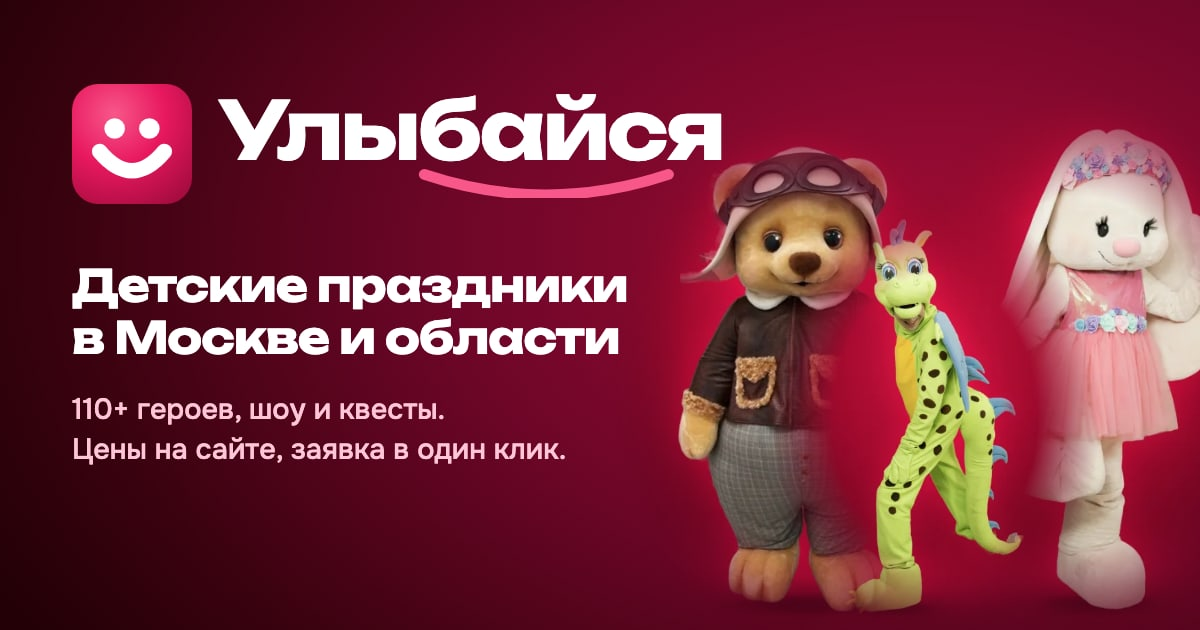
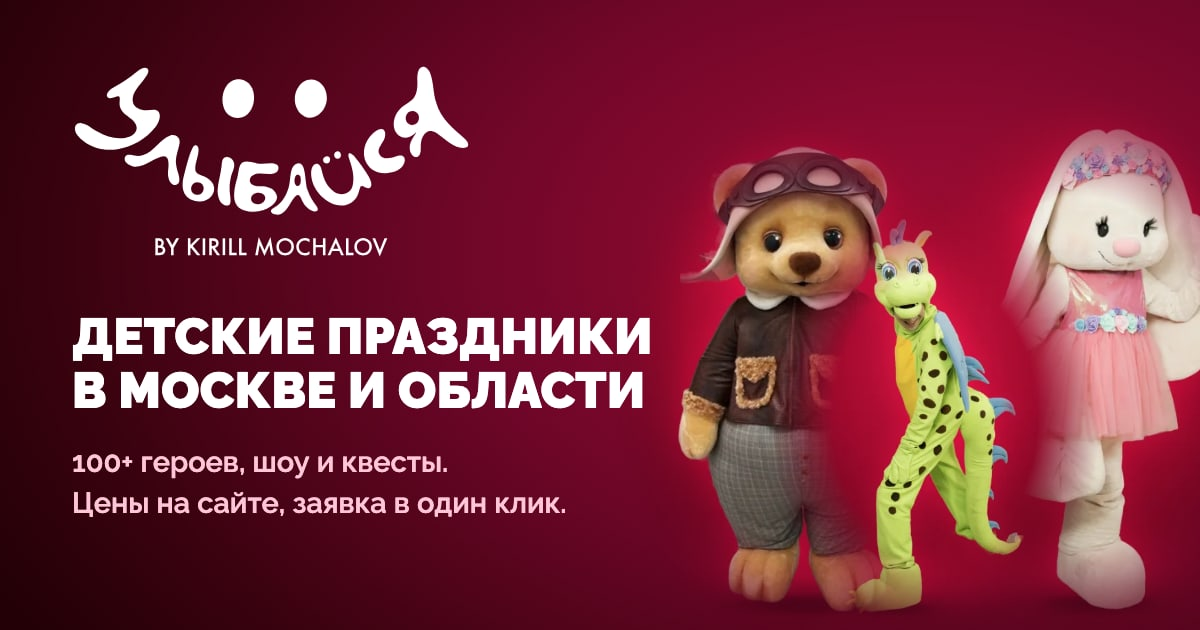
Логотип Кирилла: шапка, подвал, иконки сайта и приложения, превью ссылки

Changed region(s): [[0.0617, 0.0905, 0.6167, 0.6635], [0.0617, 0.6937, 0.4625, 0.754], [0.0617, 0.7841, 0.4625, 0.8143]]

diff --git a/web/src/app/(site)/site.css b/web/src/app/(site)/site.css
@@ -105,10 +105,8 @@
   max-width: 1200px; margin-inline: auto; display: flex; align-items: center; gap: 14px; justify-content: space-between;
   min-height: 54px; padding: 0 8px 0 20px; border-radius: 999px; background: linear-gradient(90deg, var(--rasp-700), var(--hot)); color: #fff;
 }
-.logo { display: inline-flex; flex-direction: column; align-items: flex-start; gap: 3px; color: inherit; text-decoration: none; font-family: var(--display); font-size: 22px; letter-spacing: 0.03em; text-transform: uppercase; }
-.logo .lg { display: inline-flex; align-items: center; gap: 9px; line-height: 1; }
-.logo i { width: 12px; height: 12px; border-radius: 50%; background: var(--lime); display: inline-block; }
-.logo small { font-family: var(--body); font-weight: 600; font-size: 9.5px; line-height: 1; letter-spacing: 0.12em; text-transform: none; color: var(--pink-soft); margin-left: 21px; }
+/* логотип Кирилла (белый SVG): высота задаёт размер, ширина — по пропорции */
+.logo { display: block; height: 44px; width: auto; }
 .nav-links { display: none; gap: 2px; }
 .nav-links a { padding: 8px 14px; border-radius: 999px; font-weight: 700; font-size: 14px; color: #fff; text-decoration: none; opacity: 0.9; }
 .nav-links a:hover, .nav-links a[aria-current="page"] { background: rgba(255, 255, 255, 0.18); opacity: 1; }
@@ -116,7 +114,7 @@
 .nav-req b { background: var(--ink-deep); color: var(--lime); min-width: 22px; height: 22px; padding: 0 6px; border-radius: 11px; display: inline-grid; place-items: center; font-size: 12px; }
 .nav-call { display: inline-flex; align-items: center; justify-content: center; width: 42px; min-height: 40px; border-radius: 999px; background: var(--lime); color: var(--ink-deep); }
 @media (min-width: 900px) { .nav-links { display: flex; } .nav-req { display: inline-flex; } .nav-call { display: none; } }
-@media (max-width: 380px) { .logo { font-size: 18px; } .nav { padding-left: 14px; gap: 8px; } .logo small { font-size: 8.5px; margin-left: 17px; } }
+@media (max-width: 380px) { .logo { height: 40px; } .nav { padding-left: 14px; gap: 8px; } }
 
 /* ---- нижнее меню (телефон) ---- */
 .mnav {

diff --git a/web/src/components/Logo.tsx b/web/src/components/Logo.tsx
@@ -1,12 +1,10 @@
-/** Логотип по черновику Кирилла: «Улыбайся» шрифтом Nauryz, салатовая точка, подпись «by Kirill Mochalov». */
-export function Logo() {
-  return (
-    <span className="logo" aria-label="Улыбайся by Kirill Mochalov">
-      <span className="lg">
-        <i aria-hidden="true" />
-        Улыбайся
-      </span>
-      <small aria-hidden="true">by Kirill Mochalov</small>
-    </span>
-  );
+/* eslint-disable @next/next/no-img-element -- векторный логотип: next/image для SVG ничего не даёт */
+
+/** Ширина и высота логотипа Кирилла в векторе (viewBox), чтобы место под него было занято до загрузки. */
+const W = 821;
+const H = 398;
+
+/** Логотип Кирилла (03.11, исходник — materials/logo/): белый — на малиновой шапке и тёмном подвале. */
+export function Logo({ height = 44, alt = "Улыбайся by Kirill Mochalov", className }: { height?: number; alt?: string; className?: string }) {
+  return <img src="/img/brand/ulybaysya-logo-white.svg" alt={alt} width={Math.round((height * W) / H)} height={height} className={className ?? "logo"} />;
 }

diff --git a/web/src/components/Footer.tsx b/web/src/components/Footer.tsx
@@ -1,7 +1,8 @@
 import type { Contacts } from "@/data/site";
 import { CopyPhone } from "./CopyPhone";
+import { Logo } from "./Logo";
 
-/** Подвал по черновику Кирилла: огромное «Улыбайся» и пять цветных «таблеток» контактов. */
+/** Подвал по черновику Кирилла: крупный логотип и пять цветных «таблеток» контактов. */
 export function Footer({ contacts, legal }: { contacts: Contacts; legal?: string }) {
   const bands = [
     { href: `tel:${contacts.phoneRaw}`, label: "Позвонить", value: contacts.phone },
@@ -13,9 +14,9 @@ export function Footer({ contacts, legal }: { contacts: Contacts; legal?: string
   return (
     <footer id="kontakty" className="foot scroll-mt-20">
       <div className="wrap">
-        <p className="mega" aria-hidden="true">
-          Улыбайся
-        </p>
+        <div className="mega">
+          <Logo height={240} alt="" className="mega-logo" />
+        </div>
         <div className="bands">
           {bands.map((b) => (
             <a key={b.label} className="band" href={b.href} target={b.href.startsWith("http") ? "_blank" : undefined} rel="noopener">

diff --git a/web/src/app/(site)/site-home.css b/web/src/app/(site)/site-home.css
@@ -233,7 +233,8 @@
 
 /* ---- подвал ---- */
 .foot { background: var(--ink-deep); color: #fff; padding-block: clamp(64px, 9vw, 110px) 120px; }
-.foot .mega { font-family: var(--display); font-weight: 400; text-transform: uppercase; line-height: 0.94; font-size: clamp(36px, 10.2vw, 150px); color: #fff; text-align: center; white-space: nowrap; }
+.foot .mega { display: flex; justify-content: center; margin-bottom: 22px; }
+.foot .mega-logo { display: block; width: min(560px, 82%); height: auto; }
 .foot .brace { text-align: center; margin: 12px 0 34px; color: var(--pink-soft); }
 .bands { display: flex; flex-wrap: wrap; gap: 14px; justify-content: center; margin-bottom: 26px; }
 .band { display: inline-flex; flex-direction: column; gap: 2px; min-width: 0; padding: 16px 26px; border-radius: 999px; text-decoration: none; font-weight: 800; transition: transform 0.25s; }

diff --git a/DESIGN.md b/DESIGN.md
@@ -35,7 +35,7 @@
 |---|---|---|
 | Заголовки | Raleway 900, капс | `.display`, `.h-lg` (30 → 60 px), первый экран до 96 px |
 | Акцентное слово заголовка | Nauryz, `--lime` на тёмном / `--hot` на светлом | `.ac` (по умолчанию — последнее слово из 4–9 букв, `accentTitle`) |
-| Логотип, цифры, цены, возраст на обложке | Nauryz | `.logo`, `.cost`, `.stat b`, `.ages` |
+| Цифры, цены, возраст на обложке | Nauryz | `.cost`, `.stat b`, `.ages` |
 | Кнопки | Raleway 800, капс, разрядка | `.pill` |
 | Текст | Raleway 500, 17 px | — |
 
@@ -52,13 +52,14 @@
 ## 5. Компоненты
 
 **Кнопки** `.pill` + вариант: `--lime` (главная на тёмном), `--hot` (главная на светлом), `--ghost` (контур; на тёмном — белый), `--white`, `--dark`; размеры `--sm` 40 px, обычная 50 px, `--big2` 54 px, `--big` 64 px.
-**Шапка** — пилюля с градиентом `--rasp-700 → --hot`; на телефоне логотип и «Позвонить», на ноутбуке меню и «Заявка N».
+**Логотип** — файл Кирилла (03.11): слово «Улыбайся» улыбкой, два глаза, «BY KIRILL MOCHALOV». Векторы — `public/img/brand/ulybaysya-logo.svg` (малиновый `#b11663` и тёмная подпись, на светлом) и `ulybaysya-logo-white.svg` (на тёмном и малиновом), компонент `Logo`; исходник `.ai` — `materials/logo/` (не в git). Иконки (вкладка, «Домой», приложение) — белая плитка с малиновым логотипом, как аватар Кирилла в Telegram; на 16–96 px — знак без подписи. Перерисовка — `scratch/icons/render-kirill.mjs`.
+**Шапка** — пилюля с градиентом `--rasp-700 → --hot`, белый логотип (44 px высотой); на телефоне логотип и «Позвонить», на ноутбуке меню и «Заявка N».
 **Нижнее меню** (телефон): Главная, Собрать, Пакеты, Связаться (Telegram), Корзина. Над ним — салатовая «Заявка · N · сумма · Оформить →» (кроме корзины и шага «Готово»); в корзине на её месте — «Отправить заявку · сумма», пока главная кнопка в итоге ниже экрана и пока не печатают в полях.
 **Карточки:** `ProgramCard` (цветная обложка с возрастом, «Подробнее» + «Выбрать»), `ExtraCard` (белая, «Что входит» раскрывается, каждое «Добавить» — ещё одна штука), `PackageCard` (стеклянная на тёмном, слоты вариантов кнопками, пакет с выбором свёрнут — «Развернуть состав»).
 **Наклейки** `.seas`: «Новогодний сезон», «Сезон», «Бронируйте заранее» — наклонные, слегка покачиваются.
 **Конструктор:** липкая полоса шагов (`.wz`), заголовок шага с номером, «← Назад» / «Дальше →».
 **Заявка:** тёмные плашки «Комплект персонажей пришлёт менеджер» и итог; переключатели МКАД и звука; справа (ноутбук) — «Отправить заявку» и «Удобнее в мессенджере? WhatsApp · Telegram».
-**Подвал:** огромное «Улыбайся» (Nauryz) и пять наклонных цветных «таблеток» контактов, «Скопировать номер».
+**Подвал:** крупный белый логотип (до 560 px) и пять наклонных цветных «таблеток» контактов, «Скопировать номер».
 **Всплывашка** — салатовая «Добавлено в заявку · Корзина ›», 3 секунды.
 
 ## 6. Фото
@@ -117,6 +118,7 @@
 | 2026-10-29 | Переходы | «Перетекание» фото карточки на страницу программы не заработало в Next 16.4 (браузер не получает переход) — убрано, вернуться при обновлении Next |
 | 2026-10-30 | Мини-иконка и превью ссылки | Владелец выбрал вариант A: белый смайлик на ярком малиновом (`rasp-500`), плитка со скруглением — во вкладке, в поиске, на экране «Домой» и в иконке приложения (вместо тёмной). Превью ссылки — логотип, «Детские праздники в Москве и области», три героя вне сезона (мишка, дракончик, зайка), JPG 1200×630 |
 | 2026-10-31 | Вариант Б по черновику Кирилла (раунд 15) | Салатовый `lime` — второй акцент только на сцене, в четырёх местах (§2); Nauryz — акцентное слово (§3); `btn-accent`, бегущая строка (§5). Не берём: пульсации, мигание, капс в заголовках, радужные плитки, цветные «таблетки» контактов. Логотип Кирилла — когда пришлёт файл |
+| 2026-11-03 | Логотип Кирилла | Вместо текстового «Улыбайся» и смайлика: логотип Кирилла в шапке и подвале (белый), в иконках сайта и приложения (белая плитка, малиновый логотип), в картинке превью ссылки (белый на сцене, «100+ героев»). Админка и статистика — со своими значками, не меняли |
 | 2026-11-03 | «Вернуть» в корзине | После «Убрать» 5 секунд тёмная плашка «Убрали: … · Вернуть» (салатовая кнопка) на месте липкой кнопки; на ноутбуке — внизу справа. Пакет возвращается с тем же выбором вариантов |
 | 2026-11-03 | Липкая кнопка в корзине | На телефоне в корзине вернули липкую «Отправить заявку · сумма» (вид полосы `.bar`): итог с кнопкой стоит после формы и не виден, пока клиент листает позиции |
 | 2026-11-02 | Стиль черновика Кирилла v11 | Весь публичный сайт — как черновик (раунд 20): Raleway капсом + Nauryz, палитра черновика, плитки без фото героев, раздел «Костюмы» убран. Поправки владельца: «Дальше» без пульса; плашка персонажей тёмная без смайлика; корзина — прежнее устройство с итогом справа; в подвале без «ответим на все ваши вопросы». Решения раунда 15 про пульсации, капс и цвета отменены |

diff --git a/docs/sessions/2026-11-03.md b/docs/sessions/2026-11-03.md
@@ -72,3 +72,10 @@
 ## Досылка раз в минуту (03.11, по слову владельца)
 
 - `data/notify.ts` `RESEND_EVERY_MS` 5 мин → 1 мин (проходы не накладываются — `__leadsResending`), подписи в `lib/leads.ts` и в статистике (`stats/LeadsList.tsx`). `npm run verify` — 46 тестов, выложено `deploy.sh`.
+
+## Логотип Кирилла (03.11)
+
+- Файл Кирилла `ТГ ава.ai` (PDF внутри) → `materials/logo/ulybaysya-logo-kirill.ai` (не в git); векторы с буквами в кривых (PyMuPDF): `web/public/img/brand/ulybaysya-logo.svg`, `ulybaysya-logo-white.svg`, знак без подписи — `scratch/icons/mark.svg`.
+- Шапка и подвал — белый логотип (`components/Logo.tsx`, `Footer.tsx`, стили `.logo`, `.mega-logo`); иконки `favicon.ico`, `icon.png`, `apple-icon.png`, `public/icons/uly-*.png` и картинка превью `opengraph-image.jpg` (белый логотип, Raleway капсом, «100+ героев») — скрипт `scratch/icons/render-kirill.mjs`. `DESIGN.md` §3, §5, §11.
+
+Проверено: `npm run verify` — 46 тестов, `next build` — успешно; браузер 375 и 1366 px — логотип в шапке (40–44 px) и подвале (до 560 px), без горизонтального скролла, иконки и превью отдаются (200). На боевой ещё не выложено — ждёт слова владельца.
